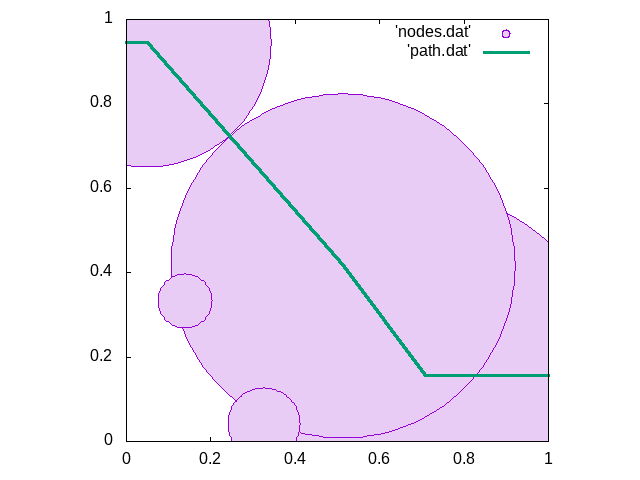
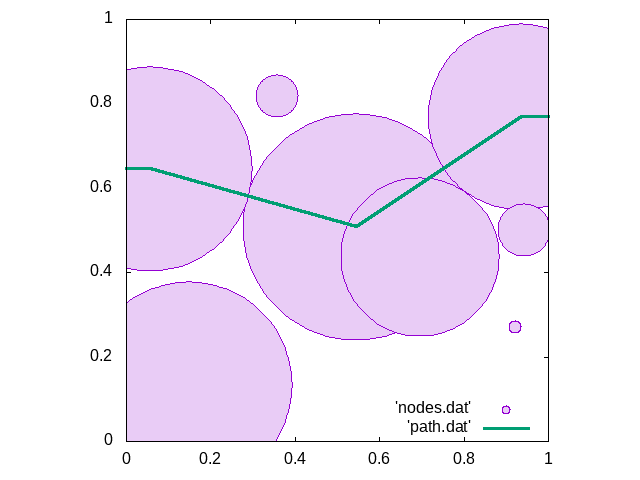
change example sim

diff --git a/command.py b/command.py
@@ -2,7 +2,7 @@ from sim import Sim
 import numpy as np
 
 dr = 0.001
-rate = 10
+rate = 50
 
 a = Sim(rate, dr, graph=True, error=True)
 a.simulate()

diff --git a/README.md b/README.md
@@ -8,11 +8,11 @@ python2.7 command.py
 ```
 `command.py` simply runs one simulation and prints a summary of the simulation, for eample:
 ```
-Coverage   = 0.7224
-Nsites     = 5
-Max radius = 0.431
-Corrected coverage = 0.72095
-Error      = 0.00145
+Coverage   = 0.6266
+Nsites     = 8
+Max radius = 0.268
+Corrected coverage = 0.62395
+Error      = 0.00265
 ```
 The `Coverage` is the fraction of the squre covered by islands when a path was made from one edge to its oposite. The `Corrected coverage` is the half way between the coverage above and the coverage on the previous step; the `Error` is half the difference between these values.
 
